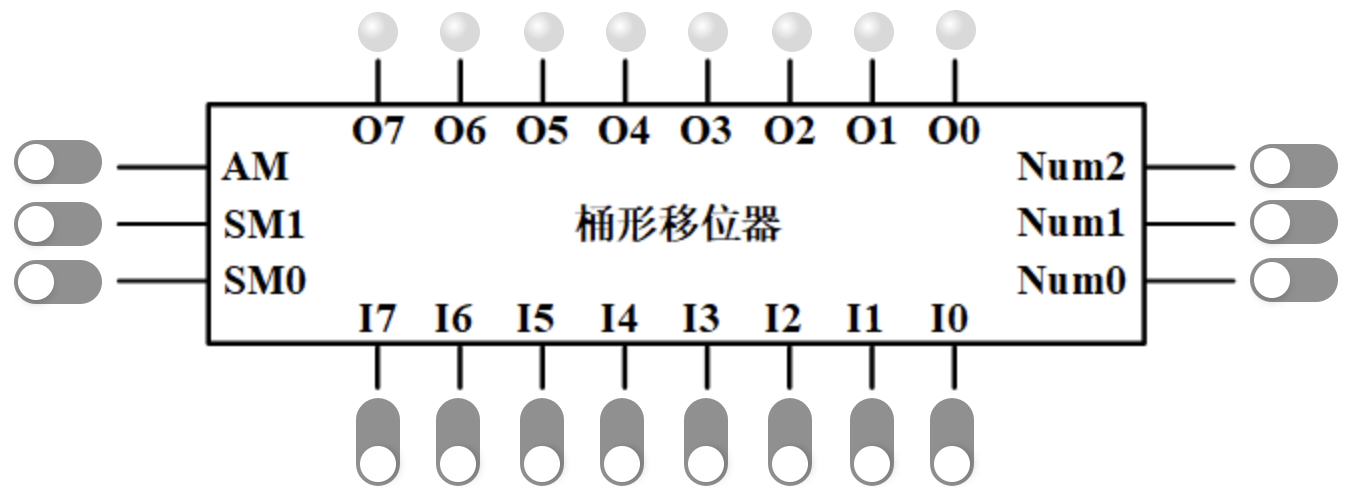
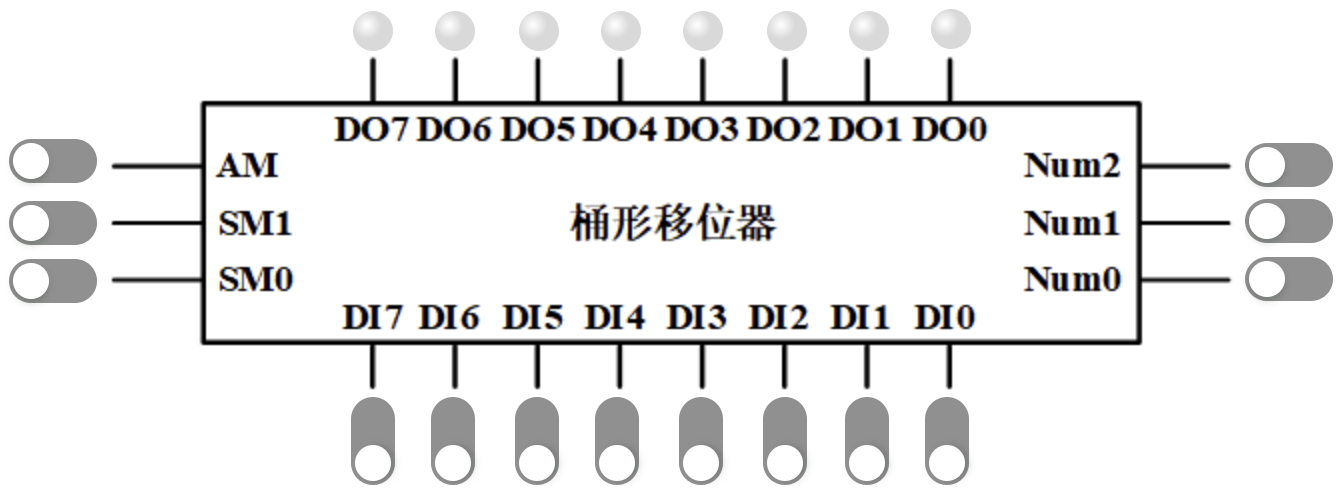
update site

diff --git a/site/jurv/sp2023/sv-docs/L14-shift_led.html b/site/jurv/sp2023/sv-docs/L14-shift_led.html
@@ -25,7 +25,7 @@
 
         <div class="navbar-item">
           <span class="control">
-            <a class="button is-primary" href="https://gitee.com/fpga-lab/jurv-open" target="_blank">Download</a>
+            <a class="button is-primary" href="https://gitee.com/fpga-lab/jurv-open" target="_blank">openJURV</a>
           </span>
         </div>
       </div>
@@ -461,7 +461,7 @@
 <h2 id="_实验内容2桶形移位"><a class="anchor" href="#_实验内容2桶形移位"></a>实验内容2：桶形移位</h2>
 <div class="sectionbody">
 <div class="sect2">
-<h3 id="_参考设计2"><a class="anchor" href="#_参考设计2"></a>参考设计2</h3>
+<h3 id="_基本原理"><a class="anchor" href="#_基本原理"></a>基本原理</h3>
 <div class="paragraph">
 <p>上面的设计是一个时钟移一位，如果需要移动多位，就需要多个时钟周期。但是现代计算机的移位指令，通常需要在一个时钟周期移动多位。实现多位移位的组合逻辑称作桶形移位器（barrel shifter），一般的实现方法是使用多路器阵列。<a href="#fig-barrel-shifter">图 3</a>是一个四位的循环左移桶形移位器，由4个4选1多路器构成；DI<sub>3-0</sub>是4位输入，DO<sub>3-0</sub>是移位的输出，移位的位数由N<sub>1</sub>N<sub>0</sub>决定，一次可移位0～3位。N<sub>1</sub>N<sub>0</sub>实际是4选1多路器的选择信号，当N<sub>1</sub>N<sub>0</sub>=00时，DO<sub>3-0</sub>输出选择的是对应的DI<sub>3-0</sub>输入，即DO<sub>3-0</sub>=DI<sub>3-0</sub>，不进行移位；当N<sub>1</sub>N<sub>0</sub>=01时，DO<sub>3-1</sub>=DI<sub>2-0</sub>，即DI左移1位，而DO<sub>0</sub>=DI<sub>3</sub>，所以是循环左移1位；当N<sub>1</sub>N<sub>0</sub>=10时，DO<sub>3-2</sub>=DI<sub>1-0</sub>，DO<sub>1-0</sub>=DI<sub>3-2</sub>，循环左移2位；类似地，当N<sub>1</sub>N<sub>0</sub>=11时，循环左移3位。</p>
 </div>
@@ -474,9 +474,12 @@
 <div class="paragraph">
 <p>由上可知，构造一个M位的桶形移位器需要M个M选1的多路器，最大可移位位数为lgM-1位。如果M较大，可采用分层的多路器阵列，以避免扇入数太大。</p>
 </div>
+</div>
+<div class="sect2">
+<h3 id="_参考设计2"><a class="anchor" href="#_参考设计2"></a>参考设计2</h3>
 <div class="paragraph">
-<p>桶形移位器是一个组合逻辑，要实现桶形移位寄存器，还需要增加一个数据寄存器。参考设计范例2给出了一个8位的循环左移桶形移位寄存器的设计，阅读其HDL代码可知，该电路分为时序逻辑和组合逻辑两个部分，组合逻辑实现移位功能，而时序逻辑就是一个并行数据寄存器，用来将移位的结果保存在寄存器中。参考设计的桶形移位逻辑并未直接按照<a href="#fig-barrel-shifter">图 3</a>结构进行描述，而是采用了Verilog行为描述方法，由综合工具生成具体的电路结构。
-逻辑结构如<a href="#fig-12">图 4</a>虚拟面板所示，复位时数据寄存器的初值为00000001，寄存器的输出Q连到桶形移位逻辑的数据输入DI，Num决定移位位数，DO是移位输出。如果Num大于1，DI左移指定位数，当点击Clk按钮时，之前的移位输出保存到寄存器并且作为移位器新的输入，连续点击Clk，LED的视觉效果是一个跳跃的流水灯。</p>
+<p>桶形移位器是一个组合逻辑，要实现桶形移位寄存器，还需要增加一个数据寄存器。参考设计范例2给出了一个8位的循环左移桶形移位寄存器的设计，阅读其HDL代码可知，该电路分为时序逻辑和组合逻辑两个部分，组合逻辑实现移位功能，而时序逻辑就是一个并行数据寄存器，用来将移位的结果保存在寄存器中。
+电路框图如<a href="#fig-12">图 4</a>虚拟面板所示，复位时数据寄存器的初值为00000001，寄存器的输出Q连到桶形移位逻辑的数据输入DI，Num决定移位位数，DO是移位输出。如果Num大于1，DI左移指定位数，当点击Clk按钮时，之前的移位输出保存到寄存器并且作为移位器新的输入，连续点击Clk，LED的视觉效果是一个跳跃的流水灯。</p>
 </div>
 <div id="fig-12" class="imageblock">
 <div class="content">
@@ -514,7 +517,7 @@
 <tr>
 <td class="tableblock halign-left valign-top"><p class="tableblock">0</p></td>
 <td class="tableblock halign-left valign-top"><p class="tableblock">0</p></td>
-<td class="tableblock halign-left valign-top"><p class="tableblock">输出零（O=0）</p></td>
+<td class="tableblock halign-left valign-top"><p class="tableblock">输出零（DO=0）</p></td>
 </tr>
 <tr>
 <td class="tableblock halign-left valign-top"><p class="tableblock">0</p></td>
@@ -529,7 +532,7 @@
 <tr>
 <td class="tableblock halign-left valign-top"><p class="tableblock">1</p></td>
 <td class="tableblock halign-left valign-top"><p class="tableblock">1</p></td>
-<td class="tableblock halign-left valign-top"><p class="tableblock">传送（O=I）</p></td>
+<td class="tableblock halign-left valign-top"><p class="tableblock">传送（DO=DI）</p></td>
 </tr>
 </tbody>
 </table>

diff --git a/site/jurv/sp2023/L0-mooc-video.html b/site/jurv/sp2023/L0-mooc-video.html
@@ -25,7 +25,7 @@
 
         <div class="navbar-item">
           <span class="control">
-            <a class="button is-primary" href="https://gitee.com/fpga-lab/jurv-open" target="_blank">Download</a>
+            <a class="button is-primary" href="https://gitee.com/fpga-lab/jurv-open" target="_blank">openJURV</a>
           </span>
         </div>
       </div>
@@ -324,20 +324,21 @@
 </aside>
 <article class="doc">
 <h1 class="page">慕课</h1>
+<div class="sect1">
+<h2 id="_自学课程"><a class="anchor" href="#_自学课程"></a>自学课程</h2>
+<div class="sectionbody">
 <div class="paragraph">
 <p>登录<a href="https://www.icourse163.org">中国大学MOOC</a>网站，搜索肖铁军、赵蕙主讲的“计算机组成与CPU设计实验”。该课程包含了本书的配套教学视频和测验。</p>
 </div>
-<div class="admonitionblock caution">
-<table>
-<tr>
-<td class="icon">
-<i class="fa icon-caution" title="注意"></i>
-</td>
-<td class="content">
-学校学分课程一般会设置面向本校学生的同步SPOC课程，学分课程的学生应选择自己学校的SPOC课程，通过SPOC课程观看源课程的教学视频，以便获得学分课程所需的成绩，具体要求请咨询自己学校的指导教师。
-</td>
-</tr>
-</table>
+</div>
+</div>
+<div class="sect1">
+<h2 id="_学分课程"><a class="anchor" href="#_学分课程"></a>学分课程</h2>
+<div class="sectionbody">
+<div class="paragraph">
+<p>学校学分课程一般会设置面向本校学生的同步SPOC课程，学分课程的学生应选择自己学校的SPOC课程，通过SPOC课程观看源课程的教学视频，以便获得学分课程所需的成绩，具体要求请咨询自己学校的指导教师。</p>
+</div>
+</div>
 </div>
 </article>
   </div>

diff --git a/site/jurv/sp2023/sv-docs/L11-tristate_mux.html b/site/jurv/sp2023/sv-docs/L11-tristate_mux.html
@@ -25,7 +25,7 @@
 
         <div class="navbar-item">
           <span class="control">
-            <a class="button is-primary" href="https://gitee.com/fpga-lab/jurv-open" target="_blank">Download</a>
+            <a class="button is-primary" href="https://gitee.com/fpga-lab/jurv-open" target="_blank">openJURV</a>
           </span>
         </div>
       </div>
@@ -401,7 +401,7 @@
 <div class="title">图 4. 与或门实现的二选一数据选择器</div>
 </div>
 <div class="paragraph">
-<p>常规的多路器总会选择某一路输出，也只能选择其中一路输出；<a href="#fig-4">图 4</a>数据选择器的特殊之处在于可以任何一路都不选择，也可以多路同时影响输出。这种方法在后面的实验中会反复用到，应熟练掌握。根据这种方法设计3选1多路选择器，编译后用实验系统验证，虚拟面板如<a href="#fig-5">图 5</a>所示。</p>
+<p>常规的多路器总会选择某一路输出，也只能选择其中一路输出；<a href="#fig-4">图 4</a>数据选择器的特殊之处在于可以任何一路都不选择，也可以多路同时影响输出。这种方法在后面的实验中会反复用到，应熟练掌握。根据这种方法设计3选1多路选择器，编译后用实验系统验证，虚拟面板如<a href="#fig-5">图 5</a>所示。图中“扩展”表示将1位的信号复制为3位，在Verilog中可以用并接、复制运算符描述，如 <code>{3{oe0}}</code>。</p>
 </div>
 <div id="fig-5" class="imageblock">
 <div class="content">

diff --git a/site/jurv/sp2023/L01b-tcl-create-quartus-project.html b/site/jurv/sp2023/L01b-tcl-create-quartus-project.html
@@ -25,7 +25,7 @@
 
         <div class="navbar-item">
           <span class="control">
-            <a class="button is-primary" href="https://gitee.com/fpga-lab/jurv-open" target="_blank">Download</a>
+            <a class="button is-primary" href="https://gitee.com/fpga-lab/jurv-open" target="_blank">openJURV</a>
           </span>
         </div>
       </div>
@@ -494,7 +494,10 @@ export_assignments
 <p>（1）<em>create_project_pocket.tcl</em>是用于远程实验板和口袋实验板的脚本文件。如果是DE2-115实验板，替换成实验材料中的<em>create_project_de2-115.tcl</em>。</p>
 </div>
 <div class="paragraph">
-<p>（2）创建的工程仅仅是包含了工程配置的工程框架，还需要将设计模块如<em>VirtualBoard.sv</em>添加到工程。</p>
+<p>（2）创建的工程文件名为<em>Lab.qpf</em>。执行脚本之前，该文件夹中不应该有同名的文件；否则执行脚本时会报错 <code>Can&#8217;t open project: Lab</code>。</p>
+</div>
+<div class="paragraph">
+<p>（3）创建的工程仅仅是包含了工程配置的工程框架，还需要将设计模块如<em>VirtualBoard.sv</em>添加到工程。</p>
 </div>
 </td>
 </tr>

diff --git a/site/jurv/sp2023/L0-download-resource.html b/site/jurv/sp2023/L0-download-resource.html
@@ -25,7 +25,7 @@
 
         <div class="navbar-item">
           <span class="control">
-            <a class="button is-primary" href="https://gitee.com/fpga-lab/jurv-open" target="_blank">Download</a>
+            <a class="button is-primary" href="https://gitee.com/fpga-lab/jurv-open" target="_blank">openJURV</a>
           </span>
         </div>
       </div>

diff --git a/site/jurv/sp2023/L0-install-software.html b/site/jurv/sp2023/L0-install-software.html
@@ -25,7 +25,7 @@
 
         <div class="navbar-item">
           <span class="control">
-            <a class="button is-primary" href="https://gitee.com/fpga-lab/jurv-open" target="_blank">Download</a>
+            <a class="button is-primary" href="https://gitee.com/fpga-lab/jurv-open" target="_blank">openJURV</a>
           </span>
         </div>
       </div>

diff --git a/site/jurv/sp2023/L0-welab-login.html b/site/jurv/sp2023/L0-welab-login.html
@@ -25,7 +25,7 @@
 
         <div class="navbar-item">
           <span class="control">
-            <a class="button is-primary" href="https://gitee.com/fpga-lab/jurv-open" target="_blank">Download</a>
+            <a class="button is-primary" href="https://gitee.com/fpga-lab/jurv-open" target="_blank">openJURV</a>
           </span>
         </div>
       </div>

diff --git a/site/jurv/sp2023/L01-guide.html b/site/jurv/sp2023/L01-guide.html
@@ -25,7 +25,7 @@
 
         <div class="navbar-item">
           <span class="control">
-            <a class="button is-primary" href="https://gitee.com/fpga-lab/jurv-open" target="_blank">Download</a>
+            <a class="button is-primary" href="https://gitee.com/fpga-lab/jurv-open" target="_blank">openJURV</a>
           </span>
         </div>
       </div>

diff --git a/site/jurv/sp2023/L01a-faq-quartus.html b/site/jurv/sp2023/L01a-faq-quartus.html
@@ -25,7 +25,7 @@
 
         <div class="navbar-item">
           <span class="control">
-            <a class="button is-primary" href="https://gitee.com/fpga-lab/jurv-open" target="_blank">Download</a>
+            <a class="button is-primary" href="https://gitee.com/fpga-lab/jurv-open" target="_blank">openJURV</a>
           </span>
         </div>
       </div>

diff --git a/site/jurv/sp2023/L02-guide-local-appendix.html b/site/jurv/sp2023/L02-guide-local-appendix.html
@@ -25,7 +25,7 @@
 
         <div class="navbar-item">
           <span class="control">
-            <a class="button is-primary" href="https://gitee.com/fpga-lab/jurv-open" target="_blank">Download</a>
+            <a class="button is-primary" href="https://gitee.com/fpga-lab/jurv-open" target="_blank">openJURV</a>
           </span>
         </div>
       </div>

diff --git a/site/jurv/sp2023/L02-guide-local-julab.html b/site/jurv/sp2023/L02-guide-local-julab.html
@@ -25,7 +25,7 @@
 
         <div class="navbar-item">
           <span class="control">
-            <a class="button is-primary" href="https://gitee.com/fpga-lab/jurv-open" target="_blank">Download</a>
+            <a class="button is-primary" href="https://gitee.com/fpga-lab/jurv-open" target="_blank">openJURV</a>
           </span>
         </div>
       </div>

diff --git a/site/jurv/sp2023/L02-guide-local-prepare.html b/site/jurv/sp2023/L02-guide-local-prepare.html
@@ -25,7 +25,7 @@
 
         <div class="navbar-item">
           <span class="control">
-            <a class="button is-primary" href="https://gitee.com/fpga-lab/jurv-open" target="_blank">Download</a>
+            <a class="button is-primary" href="https://gitee.com/fpga-lab/jurv-open" target="_blank">openJURV</a>
           </span>
         </div>
       </div>
